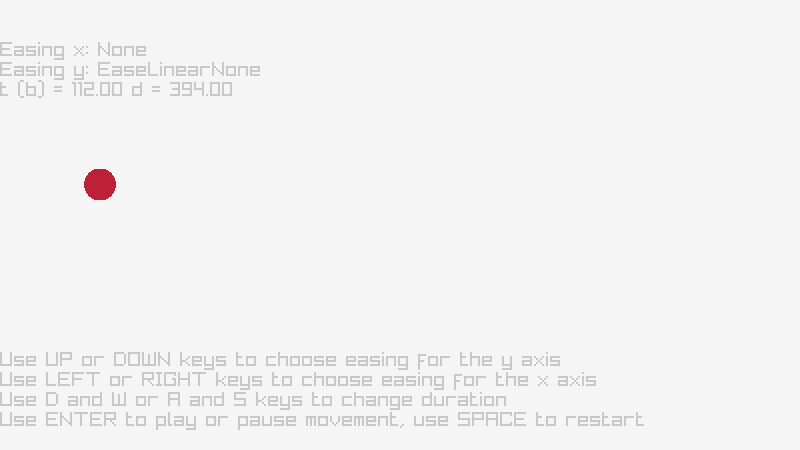
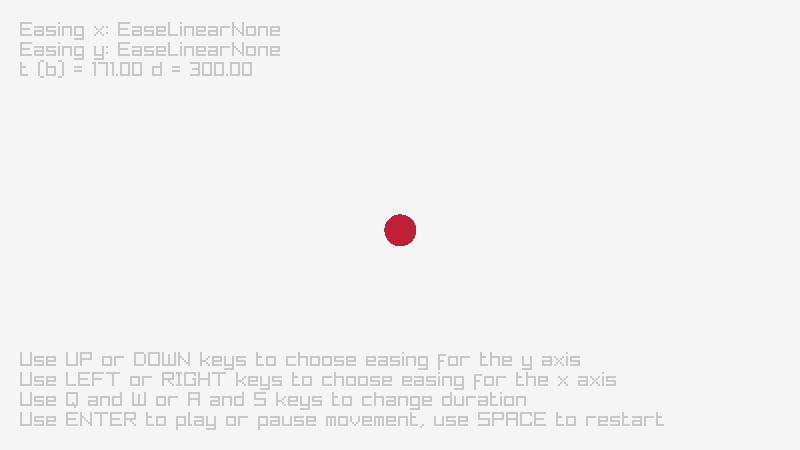
Fix examples/others/easings_testbed.c help instructions and small tweak (#3277)

diff --git a/examples/others/easings_testbed.c b/examples/others/easings_testbed.c
@@ -108,7 +108,7 @@ int main(void)
 
     InitWindow(screenWidth, screenHeight, "raylib [easings] example - easings testbed");
 
-    Vector2 ballPosition = { 100.0f, 200.0f };
+    Vector2 ballPosition = { 100.0f, 100.0f };
 
     float t = 0.0f;             // Current time (in any unit measure, but same unit as duration)
     float d = 300.0f;           // Total time it should take to complete (duration)
@@ -180,8 +180,8 @@ int main(void)
         // Movement computation
         if (!paused && ((boundedT && t < d) || !boundedT))
         {
-            ballPosition.x = Easings[easingX].func(t, 100.0f, 700.0f - 100.0f, d);
-            ballPosition.y = Easings[easingY].func(t, 100.0f, 400.0f - 100.0f, d);
+            ballPosition.x = Easings[easingX].func(t, 100.0f, 700.0f - 170.0f, d);
+            ballPosition.y = Easings[easingY].func(t, 100.0f, 400.0f - 170.0f, d);
             t += 1.0f;
         }
         //----------------------------------------------------------------------------------
@@ -193,15 +193,15 @@ int main(void)
             ClearBackground(RAYWHITE);
 
             // Draw information text
-            DrawText(TextFormat("Easing x: %s", Easings[easingX].name), 0, FONT_SIZE*2, FONT_SIZE, LIGHTGRAY);
-            DrawText(TextFormat("Easing y: %s", Easings[easingY].name), 0, FONT_SIZE*3, FONT_SIZE, LIGHTGRAY);
-            DrawText(TextFormat("t (%c) = %.2f d = %.2f", (boundedT == true)? 'b' : 'u', t, d), 0, FONT_SIZE*4, FONT_SIZE, LIGHTGRAY);
+            DrawText(TextFormat("Easing x: %s", Easings[easingX].name), 20, FONT_SIZE, FONT_SIZE, LIGHTGRAY);
+            DrawText(TextFormat("Easing y: %s", Easings[easingY].name), 20, FONT_SIZE*2, FONT_SIZE, LIGHTGRAY);
+            DrawText(TextFormat("t (%c) = %.2f d = %.2f", (boundedT == true)? 'b' : 'u', t, d), 20, FONT_SIZE*3, FONT_SIZE, LIGHTGRAY);
 
             // Draw instructions text
-            DrawText("Use ENTER to play or pause movement, use SPACE to restart", 0, GetScreenHeight() - FONT_SIZE*2, FONT_SIZE, LIGHTGRAY);
-            DrawText("Use D and W or A and S keys to change duration", 0, GetScreenHeight() - FONT_SIZE*3, FONT_SIZE, LIGHTGRAY);
-            DrawText("Use LEFT or RIGHT keys to choose easing for the x axis", 0, GetScreenHeight() - FONT_SIZE*4, FONT_SIZE, LIGHTGRAY);
-            DrawText("Use UP or DOWN keys to choose easing for the y axis", 0, GetScreenHeight() - FONT_SIZE*5, FONT_SIZE, LIGHTGRAY);
+            DrawText("Use ENTER to play or pause movement, use SPACE to restart", 20, GetScreenHeight() - FONT_SIZE*2, FONT_SIZE, LIGHTGRAY);
+            DrawText("Use Q and W or A and S keys to change duration", 20, GetScreenHeight() - FONT_SIZE*3, FONT_SIZE, LIGHTGRAY);
+            DrawText("Use LEFT or RIGHT keys to choose easing for the x axis", 20, GetScreenHeight() - FONT_SIZE*4, FONT_SIZE, LIGHTGRAY);
+            DrawText("Use UP or DOWN keys to choose easing for the y axis", 20, GetScreenHeight() - FONT_SIZE*5, FONT_SIZE, LIGHTGRAY);
 
             // Draw ball
             DrawCircleV(ballPosition, 16.0f, MAROON);
